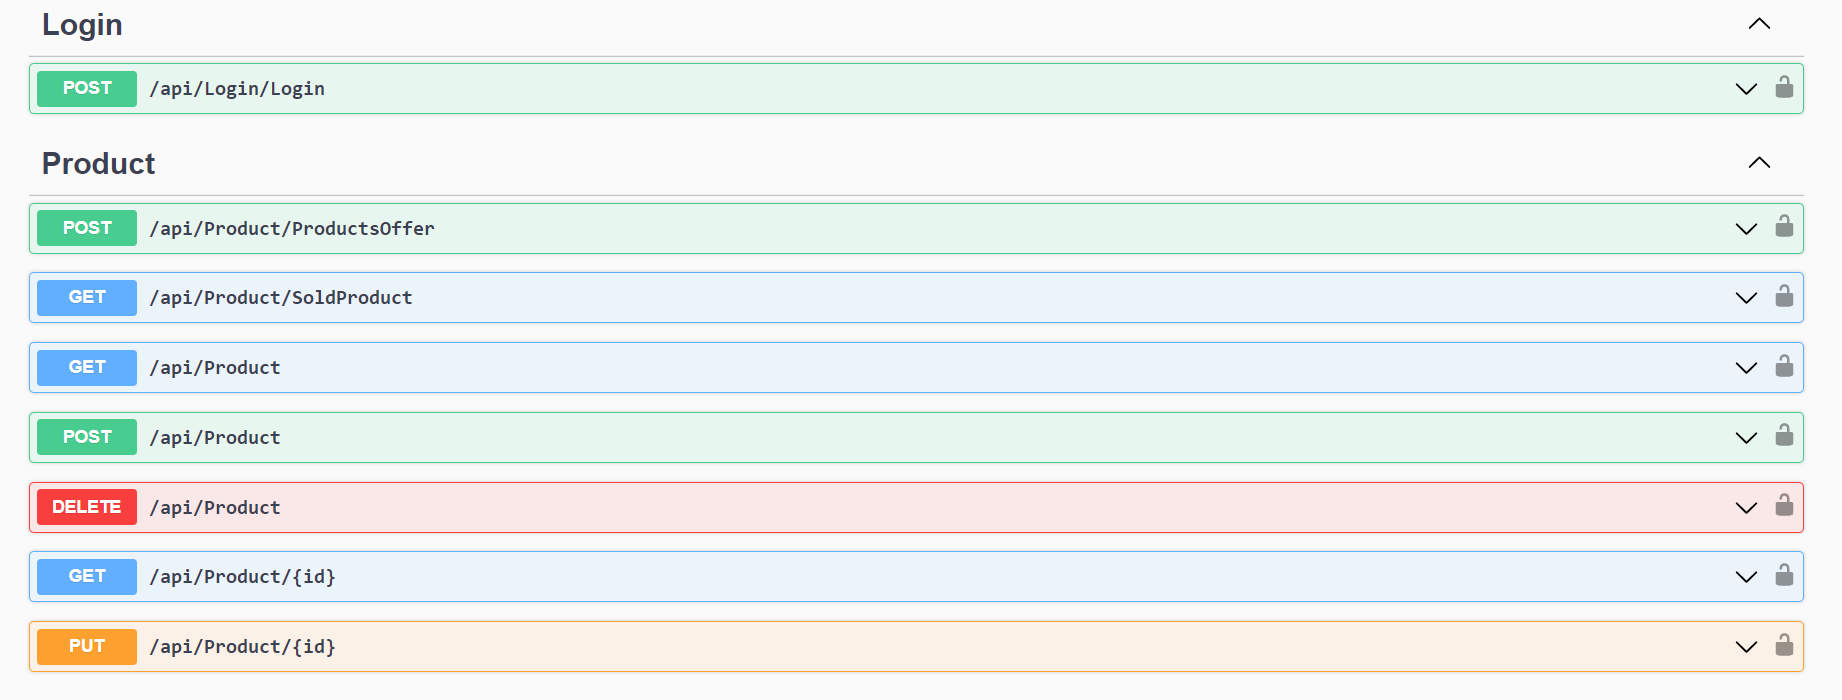
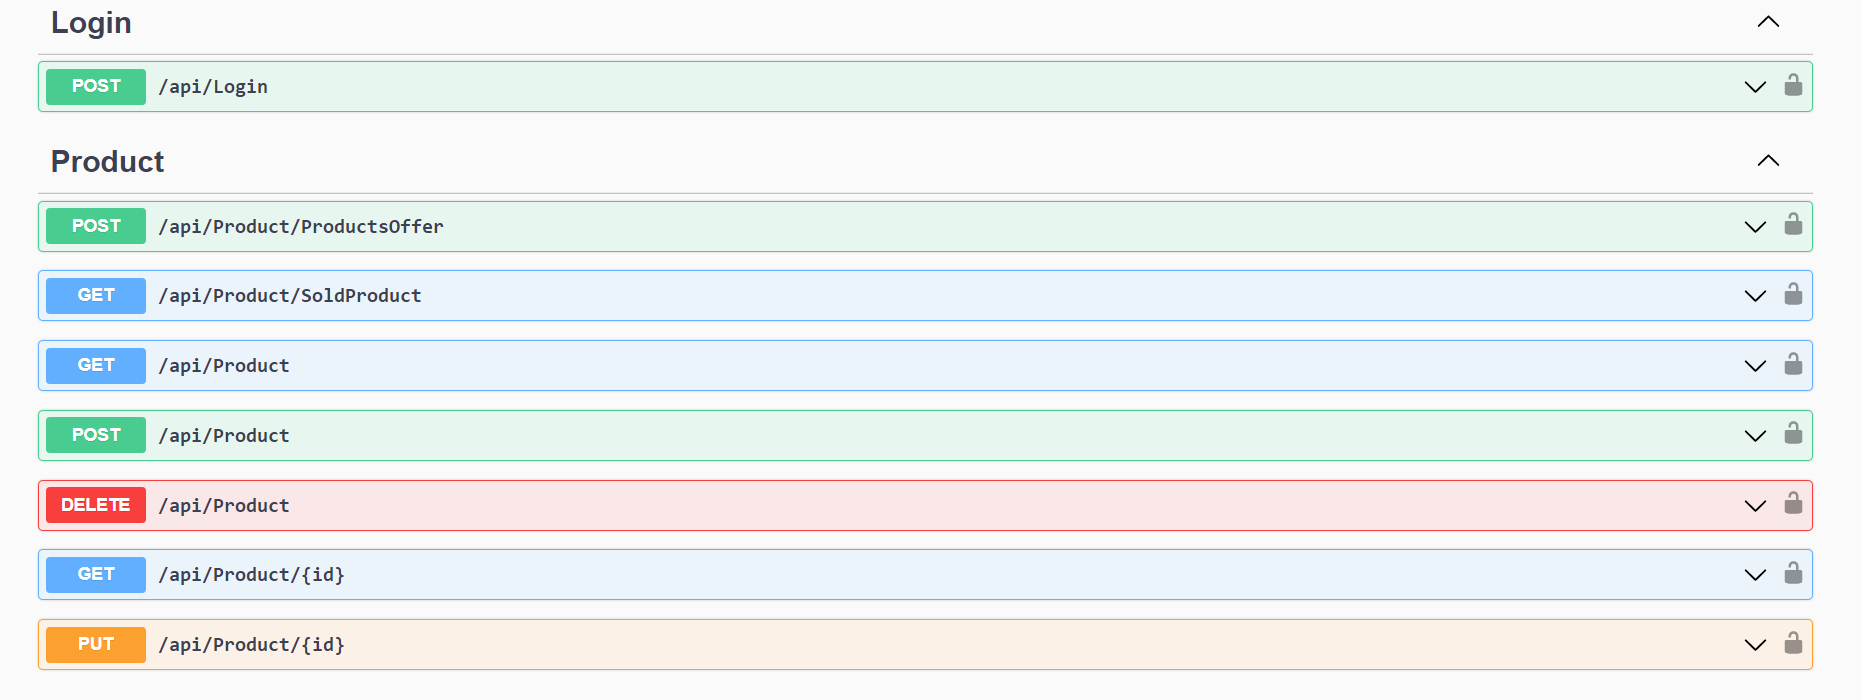
sc added

diff --git a/Project/SinemYoruc-Project/Controller/LoginController.cs b/Project/SinemYoruc-Project/Controller/LoginController.cs
@@ -5,7 +5,7 @@ using SinemYoruc_Project.Service;
 namespace SinemYoruc_Project.Controller
 {
     [ApiController]
-    [Route("api/[controller]")]
+    [Route("api")]
     public class LoginController
     {
         private readonly ILoginService loginService;
